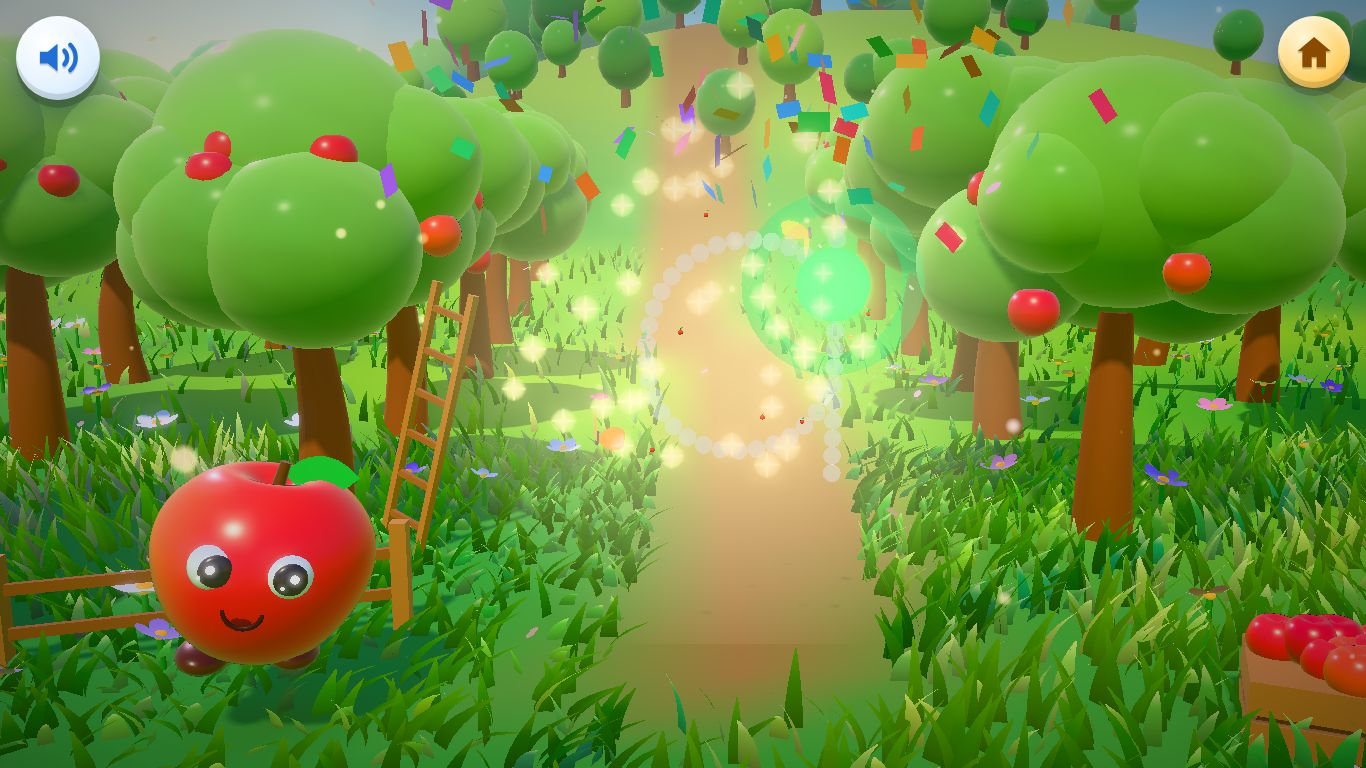
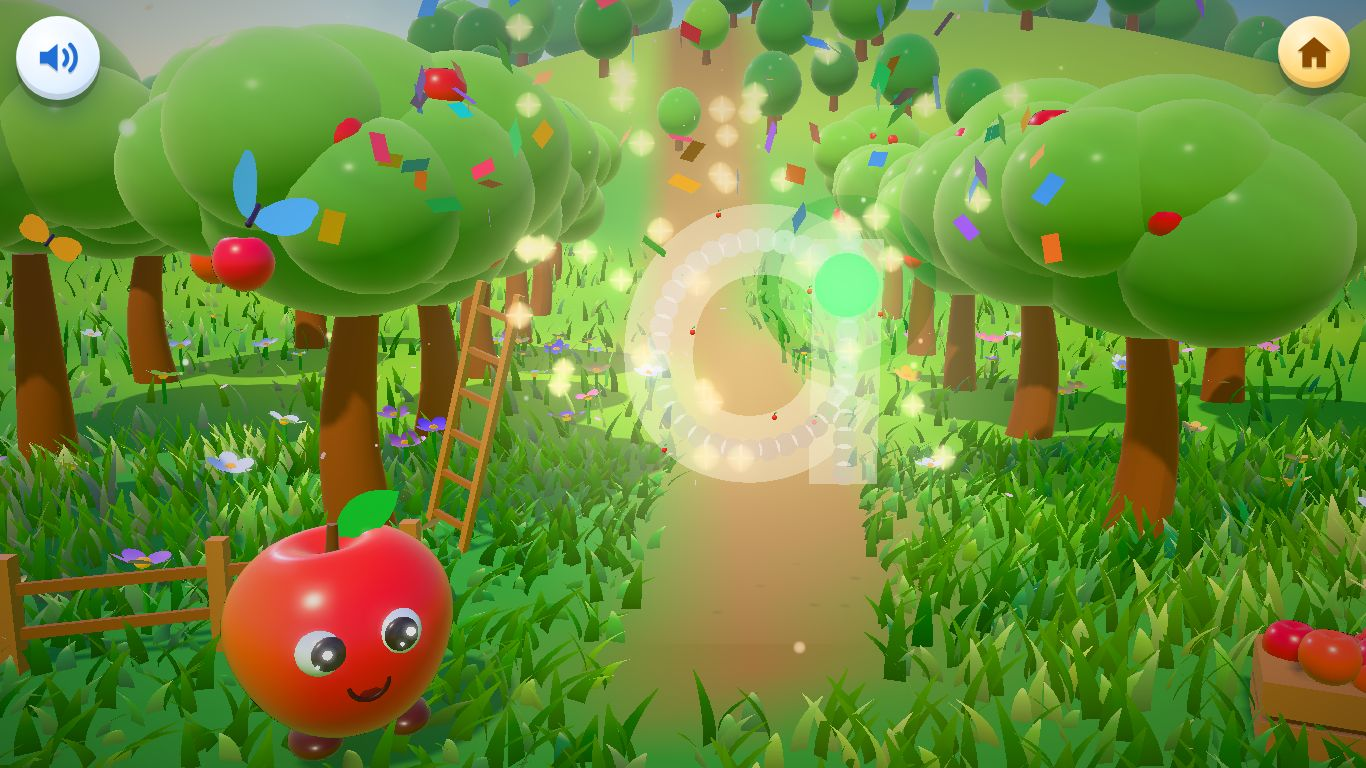
v2 K ABC look sample: reviewer fixes (clear shiny path, help where he stopped, stay-on-path reminder, sound tied to its word, phone framing)
Claude-Session: https://claude.ai/code/session_011zsETGFoJjFm6KG9EhQCep

diff --git a/v2/app/k-abc/kit3d.js b/v2/app/k-abc/kit3d.js
@@ -444,7 +444,7 @@ export function tracer(S, strokes, o = {}) {
   T.strokeProgress = () => T.k / (strokes[T.si].length - 1);
   T.startPoint = () => strokes[T.si][0];
   T.reset = () => { T.si = 0; T.k = 0; T.done = false; };
-  const reach = () => (innerWidth < 600 ? 0.95 : 0.75) * (o.reach || 1);
+  const reach = () => (innerWidth < 600 ? 0.82 : 0.62) * (o.reach || 1);
   T.step = w => { const P = strokes[T.si]; let best = T.k, bd = Math.min(reach(), w.distanceTo(P[T.k]));   /* follow the finger: the nearest path point just ahead, never running ahead of it */
     for (let i = T.k + 1; i < Math.min(P.length, T.k + 14); i++) { const d = w.distanceTo(P[i]); if (d < reach() && d <= bd + 1e-6) { best = i; bd = d; } }
     if (best > T.k) { T.k = best; T.lastMove = T.lastProgress = S.t; T.onMove(T);
@@ -453,17 +453,22 @@ export function tracer(S, strokes, o = {}) {
   const el = S.renderer.domElement;
   el.addEventListener('pointerdown', e => { if (!T.on) return; const w = S.onPlane(e, 0); if (!w) return;
     if (T.k === 0 && w.distanceTo(strokes[T.si][0]) > reach() * 1.3) { if (o.onFar) o.onFar(); return; }
+    if (T.k > 0 && w.distanceTo(strokes[T.si][T.k]) > reach() * 1.5) { if (o.onLost) o.onLost(); return; }   /* partway: he must go on from where he stopped */
     T.down = true; try { el.setPointerCapture(e.pointerId); } catch (x) {} T.step(w); });
-  el.addEventListener('pointermove', e => { if (T.down && T.on) { const w = S.onPlane(e, 0); if (w) T.step(w); } });
+  el.addEventListener('pointermove', e => { if (T.down && T.on) { const w = S.onPlane(e, 0); if (!w) return; T.step(w);
+    if (T.on && w.distanceTo(strokes[T.si][T.k]) > reach() * 1.8 && o.onOff) o.onOff(); } });   /* wandered off the path: a kind reminder */
   const up = () => { if (T.down) { T.down = false; if (o.onUp) o.onUp(); } };
   addEventListener('pointerup', up); addEventListener('pointercancel', up);
   /* glowing guide dots along the path and a pulsing green start light */
-  const dots = new THREE.Group(), dm = new THREE.MeshBasicMaterial({ color: C(0xffffff).multiplyScalar(1.4), transparent: true, opacity: 0.9 }), dg = new THREE.SphereGeometry(0.075, 12, 8);
+  const dots = new THREE.Group(), dm = new THREE.MeshBasicMaterial({ color: C(0xffffff).multiplyScalar(1.4), transparent: true, opacity: 0.9 }), dg = new THREE.SphereGeometry(0.1, 12, 8);
   strokes.forEach(P => P.forEach((p, i) => { if (i % 3) return; const d = new THREE.Mesh(dg, dm); d.position.copy(p); d.position.z += 0.05; dots.add(d); }));
   const start = new THREE.Mesh(new THREE.SphereGeometry(0.26, 24, 16), glow(0x3DFF7A, 2.4)), halo = new THREE.Mesh(new THREE.RingGeometry(0.32, 0.42, 40), new THREE.MeshBasicMaterial({ color: C(0x9CFFBE).multiplyScalar(1.6), transparent: true, opacity: 0.8, side: THREE.DoubleSide }));
-  start.add(halo); dots.visible = start.visible = false; S.scene.add(dots, start);
+  start.add(halo); dots.visible = start.visible = false; S.scene.add(dots, start); if (o.ringOnly) { start.material.visible = false; }
+  /* a wide, soft, shiny track under the dots so the path is easy to see on bright grass */
+  const trackM = new THREE.MeshBasicMaterial({ color: C(0xFFFBE8), transparent: true, opacity: 0.32, depthWrite: false });
+  strokes.forEach(P => { const g = growTube(P, () => 0.3, (t, n, c) => c.set(0xffffff), 10); g.userData.grow(1); const m = new THREE.Mesh(g, trackM); m.scale.z = 0.15; dots.add(m); });
   T.dots = dots; T.start = start; T.dm = dm;
-  S.tick(t => { start.visible = T.on && T.k < 3; if (start.visible) { start.position.copy(T.startPoint()); start.position.z += o.startZ || 0.25; const k = 1 + Math.sin(t * 6) * 0.15; start.scale.setScalar(k); halo.scale.setScalar(1 + ((t * 1.2) % 1) * 0.8); halo.material.opacity = 0.8 * (1 - (t * 1.2) % 1); }
+  S.tick(t => { start.visible = T.on && (T.k < 3 || !T.down); if (start.visible) { start.position.copy(strokes[T.si][T.k]); start.position.z += o.startZ || 0.25; const k = 1 + Math.sin(t * 6) * 0.15; start.scale.setScalar(k); halo.scale.setScalar((o.ringOnly ? 1.7 : 1) * (1 + ((t * 1.2) % 1) * (o.ringOnly ? 0.3 : 0.8))); halo.material.opacity = 0.8 * (1 - (t * 1.2) % 1); }
     dots.visible = !!(T.on || T.showDots); if (dots.visible) dm.opacity = 0.55 + Math.sin(t * 3) * 0.25; });
   return T;
 }

diff --git a/v2/app/k-abc/look.html b/v2/app/k-abc/look.html
@@ -52,11 +52,11 @@ import { worldS, worldA } from './worlds.js';
 const which = (location.search.match(/[?&]w=([a-z])/) || [])[1] || 's';
 const L = window.__look = { name: 'loading', world: which, ready: false };
 let S;
-try { S = stage(document.getElementById('stage')); } catch (e) { L.name = 'nogl'; L.err = String(e); document.getElementById('nogl').style.display = 'grid'; throw e; }
+try { S = stage(document.getElementById('stage')); } catch (e) { L.name = 'nogl'; L.err = String(e); document.getElementById('nogl').style.display = 'grid'; const help = () => { try { speechSynthesis.cancel(); speechSynthesis.speak(new SpeechSynthesisUtterance('Please ask your teacher for help.')); } catch (x) {} }; help(); document.getElementById('nogl').onclick = help; throw e; }
 const W = which === 'a' ? worldA(S) : worldS(S);
 const narrow = () => innerWidth / innerHeight < 0.8;
 S.focus.target.copy(W.focus.target); S.focus.w = 8.2; S.focus.h = 6.4;
-const setFocus = () => { S.focus.w = narrow() ? 4.7 : (W.focusW || 8.4); S.focus.h = narrow() ? 5 : 6.4; S.fit(); if (W.layout) W.layout(narrow()); }; setFocus(); addEventListener('resize', setFocus);
+const setFocus = () => { S.focus.w = narrow() ? 4.1 : (W.focusW || 8.4); S.focus.h = narrow() ? 5 : 6.4; S.fit(); if (W.layout) W.layout(narrow()); }; setFocus(); addEventListener('resize', setFocus);
 S.start();
 const cam = S.camera, $ = id => document.getElementById(id), again = $('again');
 const R = runner(again);
@@ -78,14 +78,16 @@ const T = tracer(S, W.strokes, {
   onUp: () => W.soundStop(),
   onFar: () => { if (S.t - lastNag > 3) { lastNag = S.t; R.run([W.lines.far]); } },
   onDone: () => { W.soundStop(); done(); }
-  , startZ: W.name === 's' ? 1.0 : 0.3
+  , startZ: W.name === 's' ? 0.75 : 0.3, ringOnly: W.name === 's'
+  , onLost: () => { if (S.t - lastNag > 3) { lastNag = S.t; hint(); } }
+  , onOff: () => { if (S.t - lastNag > 3) { lastNag = S.t; R.run([W.lines.off]); } }
 });
 let lastNag = -9;
 S.tick(t => { if (T.on && T.down && t - T.lastMove > 0.2) W.soundStop();
   if (T.on && !T.down && !R.busy && t - T.lastProgress > 7) { T.lastProgress = t; hint(); } });
 function hint() { /* show the way: a sparkle runs along the next part of the path */
   const P = T.strokes[T.si], k0 = T.k; let i = k0; const id = setInterval(() => { i += 2; if (i >= P.length || i > k0 + 40 || !T.on) return clearInterval(id); W.party.twinkle(P[i], 1); }, 40);
-  R.run([T.k === 0 ? W.lines.far : W.lines.you]); }
+  R.run([T.k === 0 ? W.lines.far : W.lines.keep]); }
 
 /* taps on the friend: always a happy reaction and the letter's pure sound */
 L.pokes = 0;
@@ -100,7 +102,7 @@ async function intro() {
   L.name = 'watch';
   await R.run([W.lines.hi, W.lines.watch]);
   await W.demo(); W.cheer(); await S.wait(1600);
-  await R.run([echo(() => W.sound()), echo(() => S.wait(250)), echo(() => W.sound())]);
+  await R.run([W.lines.word, echo(() => W.sound()), echo(() => S.wait(300)), W.lines.say, echo(() => W.sound()), echo(() => S.wait(300)), echo(() => W.sound())]);
   await W.reset();
   L.name = 'trace'; T.reset(); T.on = true; T.lastProgress = S.t;
   R.run([W.lines.you]);

diff --git a/v2/app/k-abc/worlds.js b/v2/app/k-abc/worlds.js
@@ -141,8 +141,8 @@ export function worldS(S) {
   const W = {
     name: 's', strokes, focus: { target: new THREE.Vector3(0, 2.75, 0) }, party: P, trees,
     camFrom: new THREE.Vector3(-6, 7, 22),
-    lines: { hi: 'Hi! I am a happy little snake.', watch: 'Watch me make my shape!', you: 'Now you! Start at the green light.', far: 'Start at the green light.',
-      yay: 'You made the snake!', tap: 'Tap me!', again: 'Again!' },
+    lines: { hi: 'Hi! I am a happy little snake.', watch: 'Watch me make my shape!', you: 'Now you! Start at the glowing ring.', far: 'Start at the glowing ring.', keep: 'Keep going! Put your finger on the ring.', off: 'Stay on the shiny path.',
+      word: 'Snake starts with this sound.', say: 'Say it with me!', yay: 'You made the snake!', tap: 'Tap me!', again: 'Again!' },
     hero: hit, heroPos,
     async appear() { await S.tween(700, e => { headS = e; }, ease.elastic); audio.boing(260); },
     sound: () => audio.hiss(900),
@@ -251,16 +251,16 @@ export function worldA(S) {
     shoes.forEach((s, i) => s.position.y = -0.76 + (dance > 0 ? Math.max(0, Math.sin(t * 8 + i * Math.PI)) * 0.12 : 0));
     AF.eyes.forEach(E => E.userData.big = big); AF.open.scale.y = Math.max(react.kind === 'surprise' ? react.k : 0, dance > 0 ? 0.7 : 0, sayK > 0 ? 0.8 : 0) + 0.01;
     hs.scale.setScalar(1 - y * 0.3); });
-  const tmpV = new THREE.Vector3();
+  const tmpV = new THREE.Vector3(); let lastA = -9;
   const W = {
     name: 'a', strokes, focusW: 6.8, focus: { target: new THREE.Vector3(-0.6, 2.55, 0) }, party: P, trees,
     camFrom: new THREE.Vector3(5, 6, 22),
-    lines: { hi: 'Hi! Welcome to my apple orchard.', watch: 'Watch the apple vine grow!', you: 'Now you! Start at the green light.', far: 'Start at the green light.',
-      yay: 'You grew the apple vine!', tap: 'Tap me!', again: 'Again!' },
+    lines: { hi: 'Hi! Welcome to my apple orchard.', watch: 'Watch the apple vine grow!', you: 'Now you! Start at the green light.', far: 'Start at the green light.', keep: 'Keep going! Put your finger on the light.', off: 'Stay on the shiny path.',
+      word: 'Apple starts with this sound.', say: 'Say it with me!', yay: 'You grew the apple vine!', tap: 'Tap me!', again: 'Again!' },
     hero: ahit, heroPos: () => hero.getWorldPosition(tmpV).clone().add(new THREE.Vector3(0, 0.6, 0)),
     async appear() { await S.tween(700, e => { heroS = e; }, ease.elastic); audio.boing(220); },
     sound: () => { sayK = 0.5; return audio.vowelA(450); },
-    soundStart: () => {}, soundStop: () => {},
+    soundStart: () => { if (S.t - lastA > 1.1) { lastA = S.t; sayK = 0.4; audio.vowelA(380); } }, soundStop: () => {},   /* while he traces, the friend says the pure short sound now and then */
     async demo() { await S.tween(2400, e => setVine(0, e), ease.inOut); await S.wait(250); await S.tween(900, e => setVine(1, e), ease.inOut); },
     grow(T) { if (T.si === 0) setVine(0, T.strokeProgress()); else { setVine(0, 1); setVine(1, T.done ? 1 : T.strokeProgress()); } },
     reset() { return S.tween(450, e => { setVine(0, 1 - e); setVine(1, 1 - e); }, ease.inOut); },
